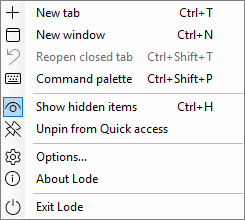
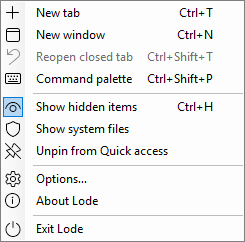
Show system files option: Windows, Program Files, other users' folders and protected files, off by default

diff --git a/src/Lode/SystemItems.cs b/src/Lode/SystemItems.cs
@@ -1,0 +1,57 @@
+/// <summary>
+/// What Show system files covers, hidden while it is off: what Windows marks both hidden and
+/// system (Explorer's protected operating system files), and the folders that belong to Windows
+/// or to other people: the Windows folder, Program Files, Program Files (x86), and other users'
+/// folders under Users. The user's own folder and Public stay.
+/// </summary>
+sealed class SystemItems(string windows, IReadOnlyList<string> programFiles, string users, IReadOnlyList<string> keptUsers)
+{
+    public static SystemItems ForThisMachine { get; } = Create();
+
+    static SystemItems Create()
+    {
+        var profile = Environment.GetFolderPath(Environment.SpecialFolder.UserProfile);
+        var users = Path.GetDirectoryName(profile) ?? "";
+        List<string> kept = [profile];
+        if (Environment.GetEnvironmentVariable("PUBLIC") is { Length: > 0 } publicFolder)
+        {
+            kept.Add(publicFolder);
+        }
+
+        string[] programFiles =
+        [
+            Environment.GetFolderPath(Environment.SpecialFolder.ProgramFiles),
+            Environment.GetFolderPath(Environment.SpecialFolder.ProgramFilesX86)
+        ];
+        return new(
+            Environment.GetFolderPath(Environment.SpecialFolder.Windows),
+            programFiles.Where(_ => _.Length > 0).ToList(),
+            users,
+            kept);
+    }
+
+    const FileAttributes protectedFile = FileAttributes.Hidden | FileAttributes.System;
+
+    public bool IsSystem(string fullPath, FileAttributes attributes)
+    {
+        if ((attributes & protectedFile) == protectedFile)
+        {
+            return true;
+        }
+
+        if (!attributes.HasFlag(FileAttributes.Directory))
+        {
+            return false;
+        }
+
+        if (Locations.Same(fullPath, windows) ||
+            programFiles.Any(_ => Locations.Same(fullPath, _)))
+        {
+            return true;
+        }
+
+        return users.Length > 0 &&
+               Locations.Same(Path.GetDirectoryName(fullPath), users) &&
+               !keptUsers.Any(_ => Locations.Same(fullPath, _));
+    }
+}

diff --git a/src/Lode.Tests/SystemItemsTests.cs b/src/Lode.Tests/SystemItemsTests.cs
@@ -1,0 +1,33 @@
+/// <summary>
+/// What Show system files covers, against a made-up machine.
+/// </summary>
+public class SystemItemsTests
+{
+    static readonly SystemItems items = new(
+        @"C:\Windows",
+        [@"C:\Program Files", @"C:\Program Files (x86)"],
+        @"C:\Users",
+        [@"C:\Users\Me", @"C:\Users\Public"]);
+
+    const FileAttributes folder = FileAttributes.Directory;
+
+    [Test]
+    public Task IsSystem() =>
+        Verify(
+            new
+            {
+                windows = items.IsSystem(@"C:\Windows", folder),
+                programFiles = items.IsSystem(@"C:\Program Files", folder),
+                programFilesX86 = items.IsSystem(@"C:\Program Files (x86)", folder),
+                insideProgramFiles = items.IsSystem(@"C:\Program Files\Git", folder),
+                anotherUser = items.IsSystem(@"C:\Users\Someone", folder),
+                myFolder = items.IsSystem(@"C:\Users\Me", folder),
+                publicFolder = items.IsSystem(@"C:\Users\Public", folder),
+                insideAnotherUser = items.IsSystem(@"C:\Users\Someone\Documents", folder),
+                fileInUsers = items.IsSystem(@"C:\Users\desktop.ini", FileAttributes.Archive),
+                hiddenAndSystem = items.IsSystem(@"D:\$RECYCLE.BIN", folder | FileAttributes.Hidden | FileAttributes.System),
+                systemButNotHidden = items.IsSystem(@"D:\Customised", folder | FileAttributes.System),
+                hiddenOnly = items.IsSystem(@"D:\.git", folder | FileAttributes.Hidden),
+                ordinaryFolder = items.IsSystem(@"C:\Code", folder)
+            });
+}

diff --git a/src/Lode/FolderView.cs b/src/Lode/FolderView.cs
@@ -274,12 +274,13 @@ sealed class FolderView : UserControl
         var version = ++loadVersion;
         var path = CurrentPath;
         var showHidden = settings.ShowHidden;
+        var hiddenSystem = settings.HiddenSystemItems();
         List<FileEntry> loaded;
         string? failure = null;
         loading = true;
         try
         {
-            loaded = await Task.Run(() => Enumerate(path, showHidden));
+            loaded = await Task.Run(() => Enumerate(path, showHidden, hiddenSystem));
         }
         catch (Exception exception)
         {
@@ -298,7 +299,7 @@ sealed class FolderView : UserControl
         Populate(preserveState);
     }
 
-    static List<FileEntry> Enumerate(string path, bool showHidden)
+    static List<FileEntry> Enumerate(string path, bool showHidden, SystemItems? hiddenSystem)
     {
         var result = new List<FileEntry>();
         if (Locations.IsThisPC(path))
@@ -338,6 +339,12 @@ sealed class FolderView : UserControl
 
         foreach (var info in new DirectoryInfo(path).EnumerateFileSystemInfos("*", options))
         {
+            if (hiddenSystem != null &&
+                hiddenSystem.IsSystem(info.FullName, info.Attributes))
+            {
+                continue;
+            }
+
             var isDirectory = info.Attributes.HasFlag(FileAttributes.Directory);
             var size = info is FileInfo file ? file.Length : 0;
             result.Add(new(info.Name, info.FullName, isDirectory, size, info.LastWriteTime, info.Attributes));

diff --git a/src/Lode/OptionsForm.cs b/src/Lode/OptionsForm.cs
@@ -31,6 +31,14 @@ class OptionsForm : Form
         Margin = new(3, 3, 3, 6)
     };
 
+    readonly CheckBox showSystem = new()
+    {
+        Name = "showSystem",
+        Text = "Show system files",
+        AutoSize = true,
+        Margin = new(3, 3, 3, 0)
+    };
+
     readonly CheckBox showRecent = new()
     {
         Name = "showRecent",
@@ -134,6 +142,12 @@ class OptionsForm : Form
         showHidden.CheckedChanged += (_, _) =>
         {
             settings.ShowHidden = showHidden.Checked;
+            SettingsChanged?.Invoke();
+        };
+        showSystem.Checked = settings.ShowSystem;
+        showSystem.CheckedChanged += (_, _) =>
+        {
+            settings.ShowSystem = showSystem.Checked;
             SettingsChanged?.Invoke();
         };
         showRecent.Checked = settings.ShowRecent;
@@ -409,6 +423,17 @@ class OptionsForm : Form
             Dock = DockStyle.Fill
         };
         layout.Controls.Add(showHidden);
+        layout.Controls.Add(showSystem);
+        layout.Controls.Add(
+            new Label
+            {
+                AutoSize = true,
+                MaximumSize = new(420, 0),
+                Margin = new(21, 0, 3, 6),
+                ForeColor = SystemColors.GrayText,
+                Text = "Windows, Program Files, other people's folders under Users, and the files " +
+                       "Windows protects."
+            });
         layout.Controls.Add(showRecent);
         layout.Controls.Add(recentDescription);
 

diff --git a/src/Lode/MainForm.cs b/src/Lode/MainForm.cs
@@ -362,6 +362,11 @@ class MainForm : Form
                 Glyph = Icons.ShowHidden,
                 Shortcut = "Ctrl+H",
                 Checked = settings.ShowHidden
+            },
+            new("Show system files", ToggleSystem)
+            {
+                Glyph = Icons.ShowSystem,
+                Checked = settings.ShowSystem
             }
         };
         if (PinnablePath() is { } path)
@@ -964,6 +969,12 @@ class MainForm : Form
         ApplySettingsToAllWindows();
     }
 
+    void ToggleSystem()
+    {
+        settings.ShowSystem = !settings.ShowSystem;
+        ApplySettingsToAllWindows();
+    }
+
     void OpenTerminal() =>
         OpenTerminal(admin: false);
 
@@ -1246,6 +1257,7 @@ class MainForm : Form
         Add("Next tab", () => SelectAdjacentTab(1), "Ctrl+Tab", tabs.TabCount > 1);
         Add("Previous tab", () => SelectAdjacentTab(-1), "Ctrl+Shift+Tab", tabs.TabCount > 1);
         Add(settings.ShowHidden ? "Hide hidden items" : "Show hidden items", ToggleHidden, "Ctrl+H");
+        Add(settings.ShowSystem ? "Hide system files" : "Show system files", ToggleSystem);
         Add("Terminal", OpenTerminal, enabled: PinnablePath() != null);
         Add("Terminal (admin)", OpenAdminTerminal, enabled: PinnablePath() != null);
         if (PinMenuText() is { } pinText)

diff --git a/src/Lode.Tests/FolderViewTests.cs b/src/Lode.Tests/FolderViewTests.cs
@@ -310,6 +310,30 @@ public class FolderViewTests
         return text;
     }
 
+    // A folder Windows marks hidden and system is left out, even with hidden items shown,
+    // until system files are shown too.
+    [Test]
+    public async Task SystemFilesWhenShown()
+    {
+        using var fixture = Fixture.Create();
+        var protectedFolder = Directory.CreateDirectory(fixture.At("Protected"));
+        protectedFolder.Attributes |= FileAttributes.Hidden | FileAttributes.System;
+        var settings = new Settings { ShowHidden = true };
+        using var view = await Open(fixture.Root, settings);
+        var withoutSystem = view.Entries.Select(_ => _.Name).ToList();
+
+        settings.ShowSystem = true;
+        view.Reload();
+        await Pump.Loaded(view);
+
+        await Verify(
+            new
+            {
+                withoutSystem,
+                withSystem = view.Entries.Select(_ => _.Name).ToList()
+            });
+    }
+
     static List<string> Selected(FolderView view) =>
         view.SelectedEntries().Select(_ => _.Name).ToList();
 

diff --git a/src/Lode/Settings.cs b/src/Lode/Settings.cs
@@ -10,6 +10,22 @@ sealed class Settings
 
     public bool ShowHidden { get; set; } = true;
 
+    // Windows' own files and folders, Program Files, and other people's folders. See SystemItems.
+    public bool ShowSystem { get; set; }
+
+    /// <summary>
+    /// What to leave out of listings for Show system files, or null when it is on.
+    /// </summary>
+    public SystemItems? HiddenSystemItems()
+    {
+        if (ShowSystem)
+        {
+            return null;
+        }
+
+        return SystemItems.ForThisMachine;
+    }
+
     // The tree's Recent section: folders Explorer adds to Quick access because they are used often.
     public bool ShowRecent { get; set; } = true;
 

diff --git a/src/Lode/FolderTree.cs b/src/Lode/FolderTree.cs
@@ -200,8 +200,10 @@ sealed class FolderTree : TreeView
                 IgnoreInaccessible = true,
                 AttributesToSkip = settings.ShowHidden ? default : FileAttributes.Hidden
             };
+            var hiddenSystem = settings.HiddenSystemItems();
             var directories = new DirectoryInfo((string)node.Tag!)
                 .EnumerateDirectories("*", options)
+                .Where(_ => hiddenSystem == null || !hiddenSystem.IsSystem(_.FullName, _.Attributes))
                 .ToList();
             directories.Sort((first, second) => StrCmpLogicalW(first.Name, second.Name));
             return directories;

diff --git a/src/Lode/Icons.cs b/src/Lode/Icons.cs
@@ -40,6 +40,7 @@ static class Icons
     public const char Reopen = '\uE7A7';
     public const char CommandPalette = '\uE765';
     public const char ShowHidden = '\uE890';
+    public const char ShowSystem = '\uEA18';
     public const char Pin = '\uE718';
     public const char Unpin = '\uE77A';
     public const char Options = '\uE713';

diff --git a/readme.md b/readme.md
@@ -105,7 +105,7 @@ Tests use [TUnit](https://github.com/thomhurst/TUnit) and [Verify](https://githu
 
    ![Right-click menu on a folder](src/Lode.Tests/MenuTests.FolderMenu.verified.png) ![New](src/Lode.Tests/MenuTests.NewMenu.verified.png)
 
- * **Options** in the ⋯ menu: show hidden items (on by default; also Ctrl+H), show the Recent section, the default folder new tabs open in, the text editor, the code folder, and replace or restore File Explorer.
+ * **Options** in the ⋯ menu: show hidden items (on by default; also Ctrl+H), show system files (off by default: Windows, Program Files, other people's folders under Users, and the files Windows protects, in the list and the folder tree), show the Recent section, the default folder new tabs open in, the text editor, the code folder, and replace or restore File Explorer.
 
    ![The ⋯ menu](src/Lode.Tests/MenuTests.WindowMenu.verified.png) ![Options](src/Lode.Tests/OptionsFormTests.LodeInCharge.verified.png)
 
